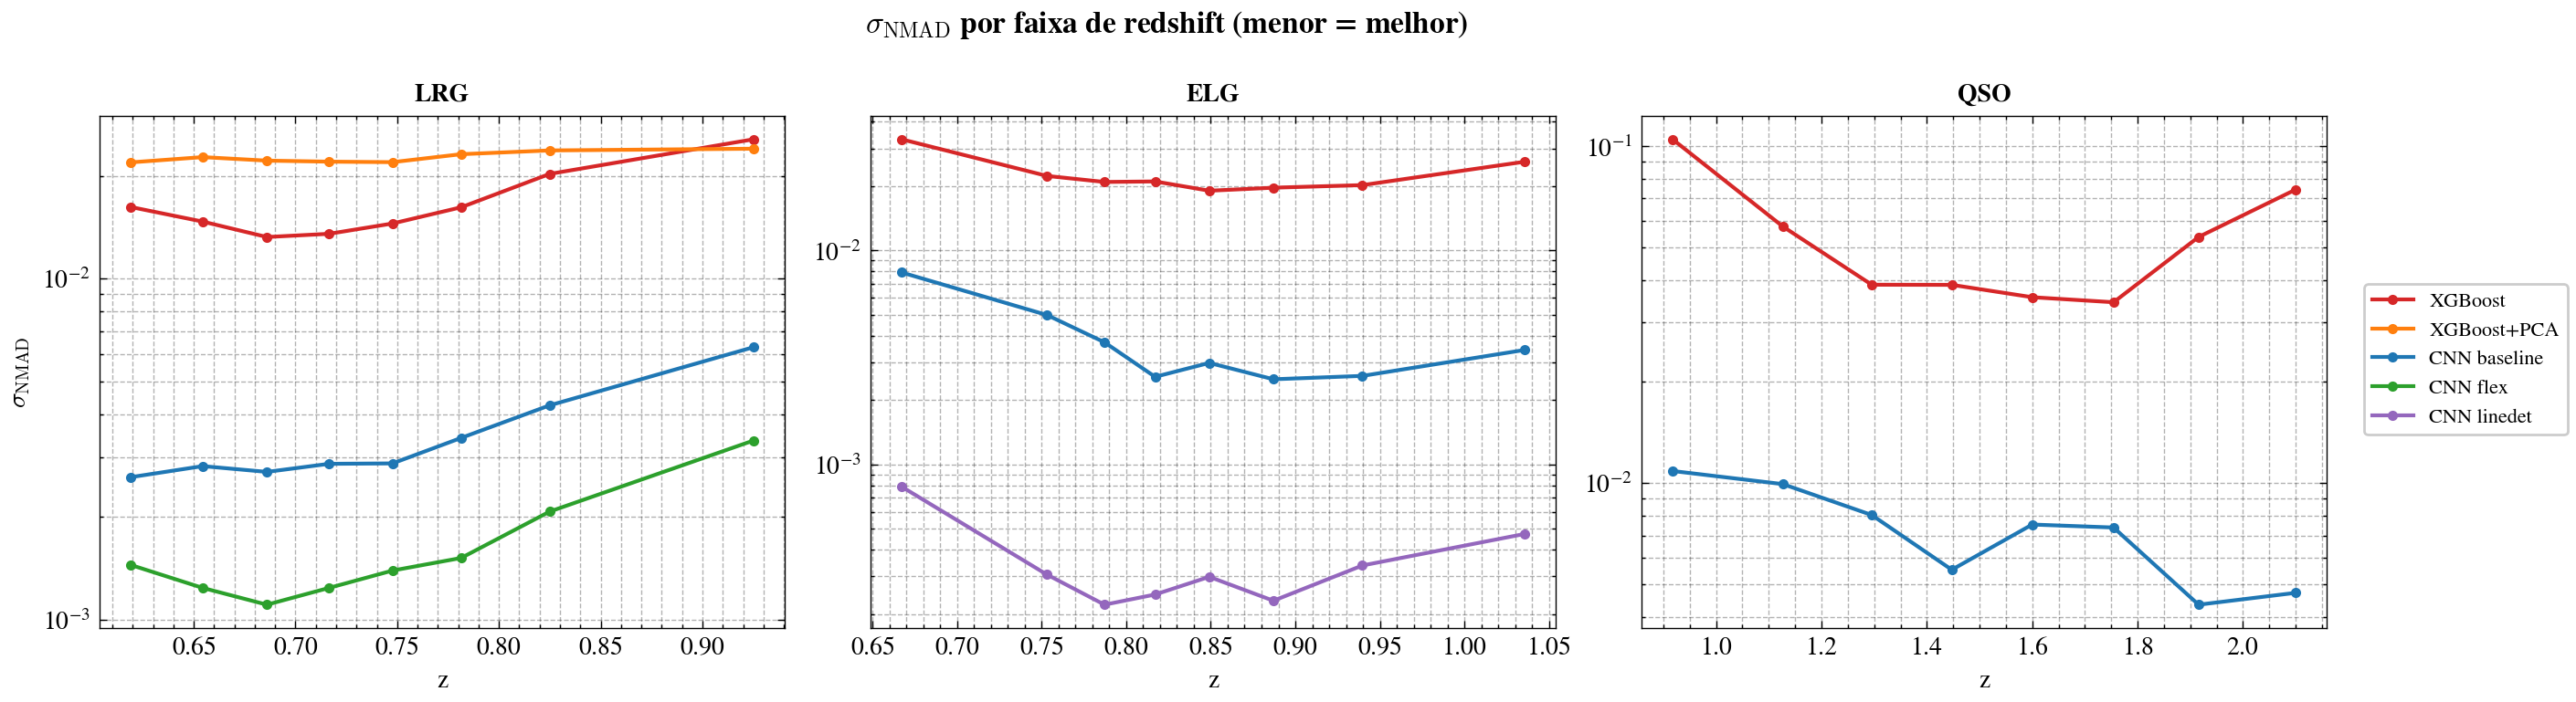
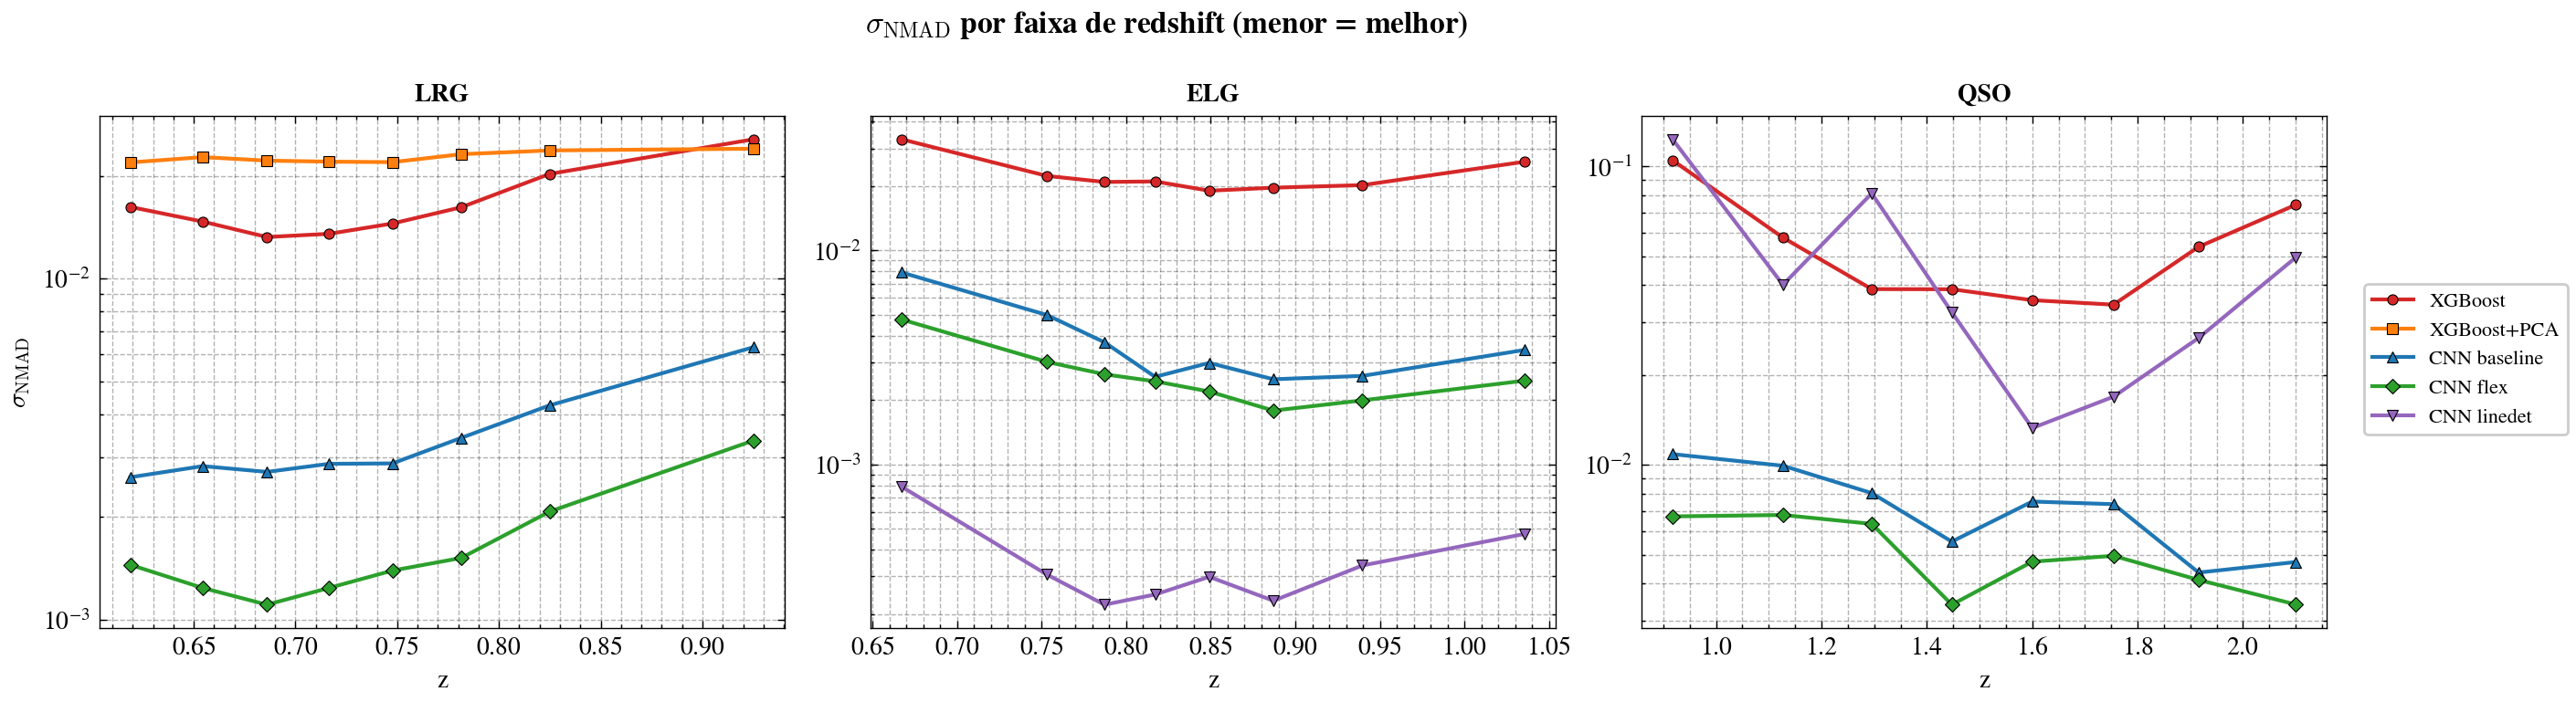
Analise: money plot, figuras Optuna, diagramas (pipeline/arquitetura) e figuras finais atualizadas

diff --git a/scripts/analysis/optuna_figures.py b/scripts/analysis/optuna_figures.py
@@ -1,0 +1,77 @@
+"""Figuras do estudo Optuna (busca de arquitetura) — o destaque do trabalho.
+Reconstroi os plots manualmente (controle total do estilo/idioma):
+  fig_optuna_history.png    — objetivo por trial + melhor-ate-agora (convergencia)
+  fig_optuna_importance.png — importancia dos hiperparametros (fANOVA, seed fixa)
+Imprime best_params (para o diagrama da arquitetura).
+
+Uso: python scripts/analysis/optuna_figures.py [--db ...] [--study ...]
+"""
+import sys, argparse
+from pathlib import Path
+import numpy as np
+import matplotlib
+matplotlib.use("Agg")
+import matplotlib.pyplot as plt
+
+ROOT = Path(__file__).resolve().parent.parent.parent
+sys.path.insert(0, str(ROOT))
+try:
+    from src.evaluation.style import set_science_style
+    set_science_style()
+except Exception:
+    pass
+import optuna
+from optuna.importance import get_param_importances, FanovaImportanceEvaluator
+optuna.logging.set_verbosity(optuna.logging.WARNING)
+
+OUT = ROOT / "results" / "figures"; OUT.mkdir(parents=True, exist_ok=True)
+
+
+def main():
+    ap = argparse.ArgumentParser()
+    ap.add_argument("--db", default="results/LRG/cnn_optuna_flex/optuna_study.db")
+    ap.add_argument("--study", default="cnn_flex_LRG_mae_c0cfd800")
+    a = ap.parse_args()
+    study = optuna.load_study(study_name=a.study, storage=f"sqlite:///{a.db}")
+    comp = [t for t in study.trials if t.value is not None]
+    print(f"Estudo {a.study}: {len(study.trials)} trials ({len(comp)} completos), "
+          f"melhor={study.best_value:.5f} (trial {study.best_trial.number})")
+
+    # ---- 1. Historico de otimizacao ----
+    nums = np.array([t.number for t in comp])
+    vals = np.array([t.value for t in comp])
+    order = np.argsort(nums)
+    nums, vals = nums[order], vals[order]
+    best_so_far = np.minimum.accumulate(vals)
+    fig, ax = plt.subplots(figsize=(7, 4))
+    ax.scatter(nums, vals, s=18, alpha=0.5, color="#1f77b4", label="trial")
+    ax.plot(nums, best_so_far, color="#d62728", lw=1.8, label="melhor até agora")
+    ax.axvline(0, color="gray", ls="--", lw=1, alpha=0.7)
+    ax.text(0.5, ax.get_ylim()[1]*0.92, "trial 0 =\nbaseline", fontsize=7,
+            color="dimgray", va="top")
+    ax.set_xlabel("Trial"); ax.set_ylabel("objetivo (MAE de validação)")
+    ax.set_yscale("log"); ax.grid(alpha=0.3, which="both"); ax.legend()
+    fig.tight_layout(); fig.savefig(OUT / "fig_optuna_history.png", dpi=200, bbox_inches="tight")
+    plt.close(fig); print("  salvo: fig_optuna_history.png")
+
+    # ---- 2. Importancia dos hiperparametros ----
+    imp = get_param_importances(study, evaluator=FanovaImportanceEvaluator(seed=42))
+    names = list(imp.keys()); vimp = list(imp.values())
+    fig, ax = plt.subplots(figsize=(7, 4.2))
+    y = np.arange(len(names))
+    ax.barh(y[::-1], vimp, color="#2ca02c", alpha=0.85, edgecolor="black", lw=0.4)
+    ax.set_yticks(y[::-1]); ax.set_yticklabels(names)
+    for yi, v in zip(y[::-1], vimp):
+        ax.text(v + 0.005, yi, f"{v:.2f}", va="center", fontsize=7)
+    ax.set_xlabel("importância relativa (fANOVA)")
+    ax.set_xlim(0, max(vimp) * 1.15); ax.grid(alpha=0.3, axis="x")
+    fig.tight_layout(); fig.savefig(OUT / "fig_optuna_importance.png", dpi=200, bbox_inches="tight")
+    plt.close(fig); print("  salvo: fig_optuna_importance.png")
+
+    print("\n=== best_params ===")
+    for k, v in study.best_params.items():
+        print(f"  {k}: {v}")
+
+
+if __name__ == "__main__":
+    main()

diff --git a/scripts/analysis/money_plot.py b/scripts/analysis/money_plot.py
@@ -1,0 +1,60 @@
+"""Money plot — sigma_NMAD (km/s) multi-seed por modelo/objeto, com barras de erro.
+Le results/benchmark/summary.csv e gera results/figures/summary_nmad.png
+Consistente com paper_figures.py (mesmas cores/nomes; ordem LRG,ELG,QSO).
+"""
+import sys
+from pathlib import Path
+import numpy as np
+import pandas as pd
+import matplotlib
+matplotlib.use("Agg")
+import matplotlib.pyplot as plt
+
+ROOT = Path(__file__).resolve().parent.parent.parent
+sys.path.insert(0, str(ROOT))
+try:
+    from src.evaluation.style import set_science_style
+    set_science_style()
+except Exception:
+    pass
+
+C = 299792.458
+OUT = ROOT / "results" / "figures"; OUT.mkdir(parents=True, exist_ok=True)
+
+NAME = {"xgb_raw": "XGBoost", "xgb_pca": "XGBoost+PCA",
+        "cnn_baseline": "CNN baseline", "cnn_linedet": "CNN linedet"}
+COLORS = {"XGBoost": "#d62728", "XGBoost+PCA": "#ff7f0e",
+          "CNN baseline": "#1f77b4", "CNN linedet": "#9467bd"}
+MODEL_ORDER = ["XGBoost", "XGBoost+PCA", "CNN baseline", "CNN linedet"]
+OBJS = ["LRG", "ELG", "QSO"]
+
+df = pd.read_csv(ROOT / "results" / "benchmark" / "summary.csv")
+df["label"] = df["model"].map(NAME)
+piv_m = df.pivot(index="object", columns="label", values="mean")
+piv_s = df.pivot(index="object", columns="label", values="std")
+
+fig, ax = plt.subplots(figsize=(11, 5))
+x = np.arange(len(OBJS))
+nmod = len(MODEL_ORDER)
+w = 0.8 / nmod
+for i, model in enumerate(MODEL_ORDER):
+    means = np.array([piv_m.loc[o, model] * C if (o in piv_m.index and model in piv_m.columns
+                     and not np.isnan(piv_m.loc[o, model])) else np.nan for o in OBJS])
+    errs = np.array([piv_s.loc[o, model] * C if (o in piv_s.index and model in piv_s.columns
+                    and not np.isnan(piv_s.loc[o, model])) else np.nan for o in OBJS])
+    pos = x + (i - (nmod - 1) / 2) * w
+    ax.bar(pos, means, w, yerr=errs, capsize=3, color=COLORS[model],
+           edgecolor="black", linewidth=0.5, label=model, alpha=0.9,
+           error_kw=dict(lw=1.0))
+
+ax.axhline(20, color="#2ca02c", ls=":", lw=1.5)
+ax.text(len(OBJS) - 0.5, 22, "piso físico do ELG ($\\sim$20 km/s)",
+        fontsize=7, color="#2ca02c", ha="right", va="bottom")
+ax.set_yscale("log")
+ax.set_xticks(x); ax.set_xticklabels(OBJS)
+ax.set_ylabel(r"$\sigma_{\mathrm{NMAD}}$ (km/s)")
+ax.grid(alpha=0.3, axis="y", which="both")
+ax.legend(fontsize=8, ncol=2, loc="upper left")
+fig.tight_layout()
+fig.savefig(OUT / "summary_nmad.png", dpi=200, bbox_inches="tight")
+print("salvo:", OUT / "summary_nmad.png")

diff --git a/scripts/analysis/pipeline_diagram.py b/scripts/analysis/pipeline_diagram.py
@@ -1,0 +1,49 @@
+"""Diagrama de fluxo da montagem do dataset (para o TCC).
+Gera results/figures/fig_pipeline_dataset.png
+"""
+import sys
+from pathlib import Path
+import matplotlib
+matplotlib.use("Agg")
+import matplotlib.pyplot as plt
+from matplotlib.patches import FancyBboxPatch, FancyArrowPatch
+
+ROOT = Path(__file__).resolve().parent.parent.parent
+OUT = ROOT / "results" / "figures"; OUT.mkdir(parents=True, exist_ok=True)
+
+steps = [
+    ("Catálogos de\n\\itclustering\n(NGC + SGC)", "#4C72B0"),
+    ("Cross-match 1\"\ncom catálogo completo\n(S/N, mags, cores)", "#55A868"),
+    ("Cortes de qualidade\n($z \\geq 0$,\nZWARNING $= 0$)", "#C44E52"),
+    ("Download dos espectros\n(cache + paralelo;\nURLs legacy / eBOSS)", "#8172B3"),
+    ("HDF5 estruturado\n(fluxos + $z_{spec}$\n+ metadados)", "#CCB974"),
+]
+
+fig, ax = plt.subplots(figsize=(13, 2.6))
+n = len(steps)
+bw, bh, gap = 2.15, 1.6, 0.55
+x = 0.0
+centers = []
+for label, color in steps:
+    box = FancyBboxPatch((x, 0), bw, bh,
+                         boxstyle="round,pad=0.08,rounding_size=0.15",
+                         linewidth=1.3, edgecolor="black",
+                         facecolor=color, alpha=0.85)
+    ax.add_patch(box)
+    ax.text(x + bw/2, bh/2, label.replace("\\it", "").replace("$z_{spec}$", "z_spec")
+            .replace("$z \\geq 0$", "z ≥ 0").replace("$", ""),
+            ha="center", va="center", fontsize=8.5, color="white", weight="bold")
+    centers.append(x + bw/2)
+    x += bw + gap
+
+for i in range(n - 1):
+    a = FancyArrowPatch((centers[i] + bw/2, bh/2), (centers[i+1] - bw/2, bh/2),
+                        arrowstyle="-|>", mutation_scale=18, lw=1.6, color="black")
+    ax.add_patch(a)
+
+ax.set_xlim(-0.3, x - gap + 0.3)
+ax.set_ylim(-0.3, bh + 0.3)
+ax.axis("off")
+fig.tight_layout()
+fig.savefig(OUT / "fig_pipeline_dataset.png", dpi=200, bbox_inches="tight")
+print("salvo:", OUT / "fig_pipeline_dataset.png")

diff --git a/scripts/analysis/flex_arch_diagram.py b/scripts/analysis/flex_arch_diagram.py
@@ -1,0 +1,40 @@
+"""Diagrama da arquitetura da CNN selecionada pela busca Optuna (flex LRG).
+Gera results/figures/fig_flex_arch.png
+"""
+import sys
+from pathlib import Path
+import matplotlib
+matplotlib.use("Agg")
+import matplotlib.pyplot as plt
+from matplotlib.patches import FancyBboxPatch, FancyArrowPatch
+
+ROOT = Path(__file__).resolve().parent.parent.parent
+OUT = ROOT / "results" / "figures"; OUT.mkdir(parents=True, exist_ok=True)
+
+# arquitetura escolhida pelo Optuna (best_params, flex LRG):
+# n_conv_blocks=4, kernel 25 (-6/bloco), taper_last_block -> filtros 64,128,256,128
+# n_dense_layers=4, n_units=576 (halving) -> 576,288,144,72 ; ELU, AdamW, BN
+steps = [
+    ("Espectro\n$(N_\\lambda \\times 1)$", "#4C72B0"),
+    ("4 blocos\nconvolucionais\n64$\\to$128$\\to$256$\\to$128 filtros\nkernel 25$\\to$7 · BN · ELU", "#55A868"),
+    ("Global\nAverage\nPooling", "#8172B3"),
+    ("4 camadas densas\n576$\\to$288$\\to$144$\\to$72\ndropout (ramp)", "#C44E52"),
+    ("ScaledSoftplus\n$z \\geq 0$", "#CCB974"),
+]
+fig, ax = plt.subplots(figsize=(13, 2.7))
+bw, bh, gap = 2.2, 1.7, 0.55
+x = 0.0; centers = []
+for label, color in steps:
+    ax.add_patch(FancyBboxPatch((x, 0), bw, bh,
+                 boxstyle="round,pad=0.08,rounding_size=0.15",
+                 lw=1.3, edgecolor="black", facecolor=color, alpha=0.88))
+    ax.text(x + bw/2, bh/2, label, ha="center", va="center",
+            fontsize=8.5, color="white", weight="bold")
+    centers.append(x + bw/2); x += bw + gap
+for i in range(len(steps) - 1):
+    ax.add_patch(FancyArrowPatch((centers[i]+bw/2, bh/2), (centers[i+1]-bw/2, bh/2),
+                 arrowstyle="-|>", mutation_scale=18, lw=1.6, color="black"))
+ax.set_xlim(-0.3, x - gap + 0.3); ax.set_ylim(-0.3, bh + 0.3); ax.axis("off")
+fig.tight_layout()
+fig.savefig(OUT / "fig_flex_arch.png", dpi=200, bbox_inches="tight")
+print("salvo:", OUT / "fig_flex_arch.png")

diff --git a/scripts/analysis/paper_figures.py b/scripts/analysis/paper_figures.py
@@ -49,18 +49,25 @@ REG = {
     "ELG": {
         "XGBoost":      "results/ELG/xgboost_baseline/predictions.npz",
         "CNN baseline": "results/ELG/cnn_baseline/predictions.npz",
+        "CNN flex":     "results/ELG/cnn_optuna_flex/flex-ELG-t50_e40_s42-mae_nozw-12a788ad/test_outputs.npz",
         "CNN linedet":  "results/ELG/cnn_linedet/predictions.npz",
     },
     "QSO": {
         "XGBoost":      "results/QSO/xgboost_baseline/predictions.npz",
         "CNN baseline": "results/QSO/cnn_baseline/predictions.npz",
+        "CNN flex":     "results/QSO/cnn_optuna_flex/flex-QSO-t50_e40_s42-mae_nozw-2955f8a8/test_outputs.npz",
+        "CNN linedet":  "results/QSO/cnn_linedet/predictions.npz",
     },
 }
 
-# cor fixa por modelo (consistencia entre figuras)
+# cor + marcador fixos por modelo (consistencia entre figuras; distinguivel em P&B)
 COLORS = {
     "XGBoost": "#d62728", "XGBoost+PCA": "#ff7f0e",
     "CNN baseline": "#1f77b4", "CNN flex": "#2ca02c", "CNN linedet": "#9467bd",
+}
+MARKERS = {
+    "XGBoost": "o", "XGBoost+PCA": "s", "CNN baseline": "^",
+    "CNN flex": "D", "CNN linedet": "v",
 }
 # preferencia de "melhor modelo" por objeto (pro painel de residuos)
 BEST = {"LRG": "CNN flex", "ELG": "CNN linedet", "QSO": "CNN baseline"}
@@ -121,8 +128,9 @@ def fig_sigma_by_zbin(data, n_bins=8):
                     continue
                 centers.append(0.5 * (edges[i] + edges[i + 1]))
                 sig.append(sigma_nmad(dz[m]))
-            ax.plot(centers, sig, marker="o", ms=3, lw=1.5,
-                    color=COLORS.get(model), label=model)
+            ax.plot(centers, sig, marker=MARKERS.get(model, "o"), ms=4, lw=1.5,
+                    color=COLORS.get(model), label=model, markeredgecolor="black",
+                    markeredgewidth=0.4)
         ax.set_yscale("log")
         ax.set_xlabel("z")
         ax.set_title(obj, fontweight="bold")